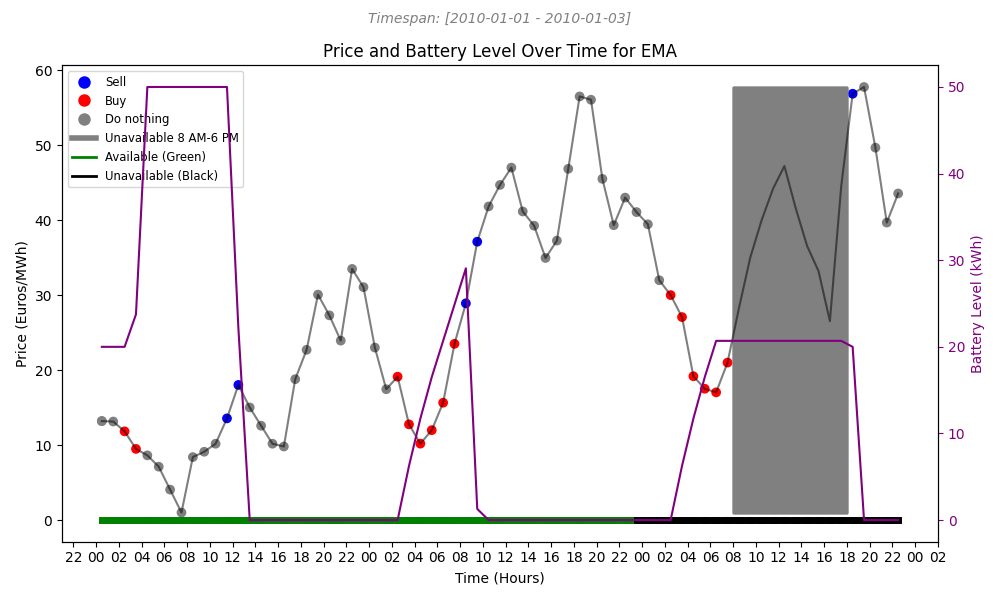
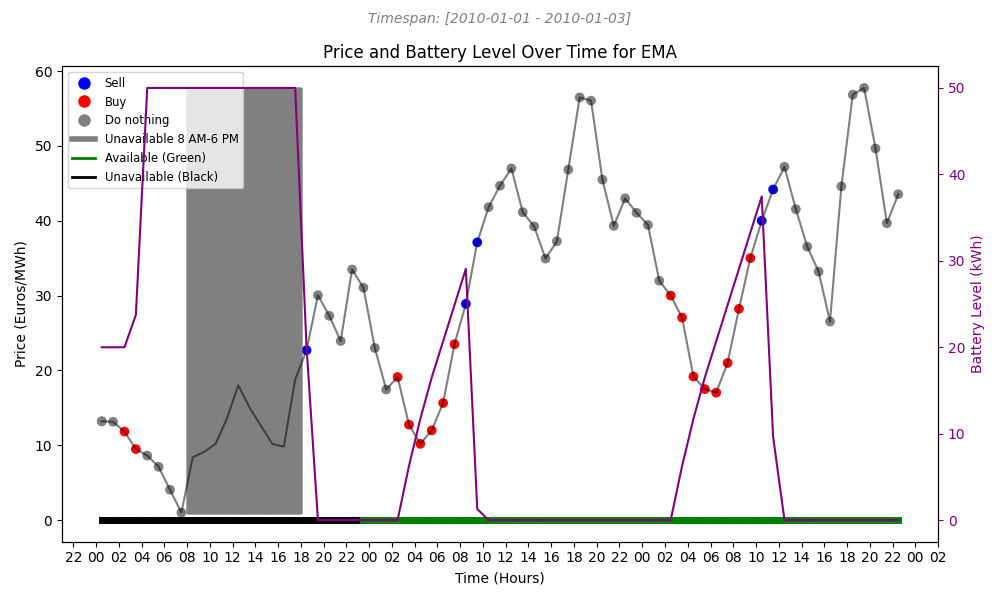
New plots for debugged algorithms.

diff --git a/data/data_vis.py b/data/data_vis.py
@@ -236,7 +236,7 @@ def visualize_bat(df: pd.DataFrame, algorithm: str) -> None:
         algorithm (str): Algorithm used
     """
     # Convert defaultdict to DataFrame and limit the data to the first 48 rows (2 days)
-    df = pd.DataFrame(df).head(72)
+    df = pd.DataFrame(df).head(400)
 
     # Ensure the 'date' column is in datetime format
     df['date'] = pd.to_datetime(df['date'])

diff --git a/baseline.py b/baseline.py
@@ -7,7 +7,7 @@ from typing import Type, Tuple
 import sys
 from datetime import datetime
 from collections import defaultdict
-from data.data_vis import visualize_bat, plot_revenue, visualize_battery
+from data.data_vis import visualize_bat, plot_revenue
 
 # Constants
 NUM_EPISODES = 1 # Define the number of episodes for training
